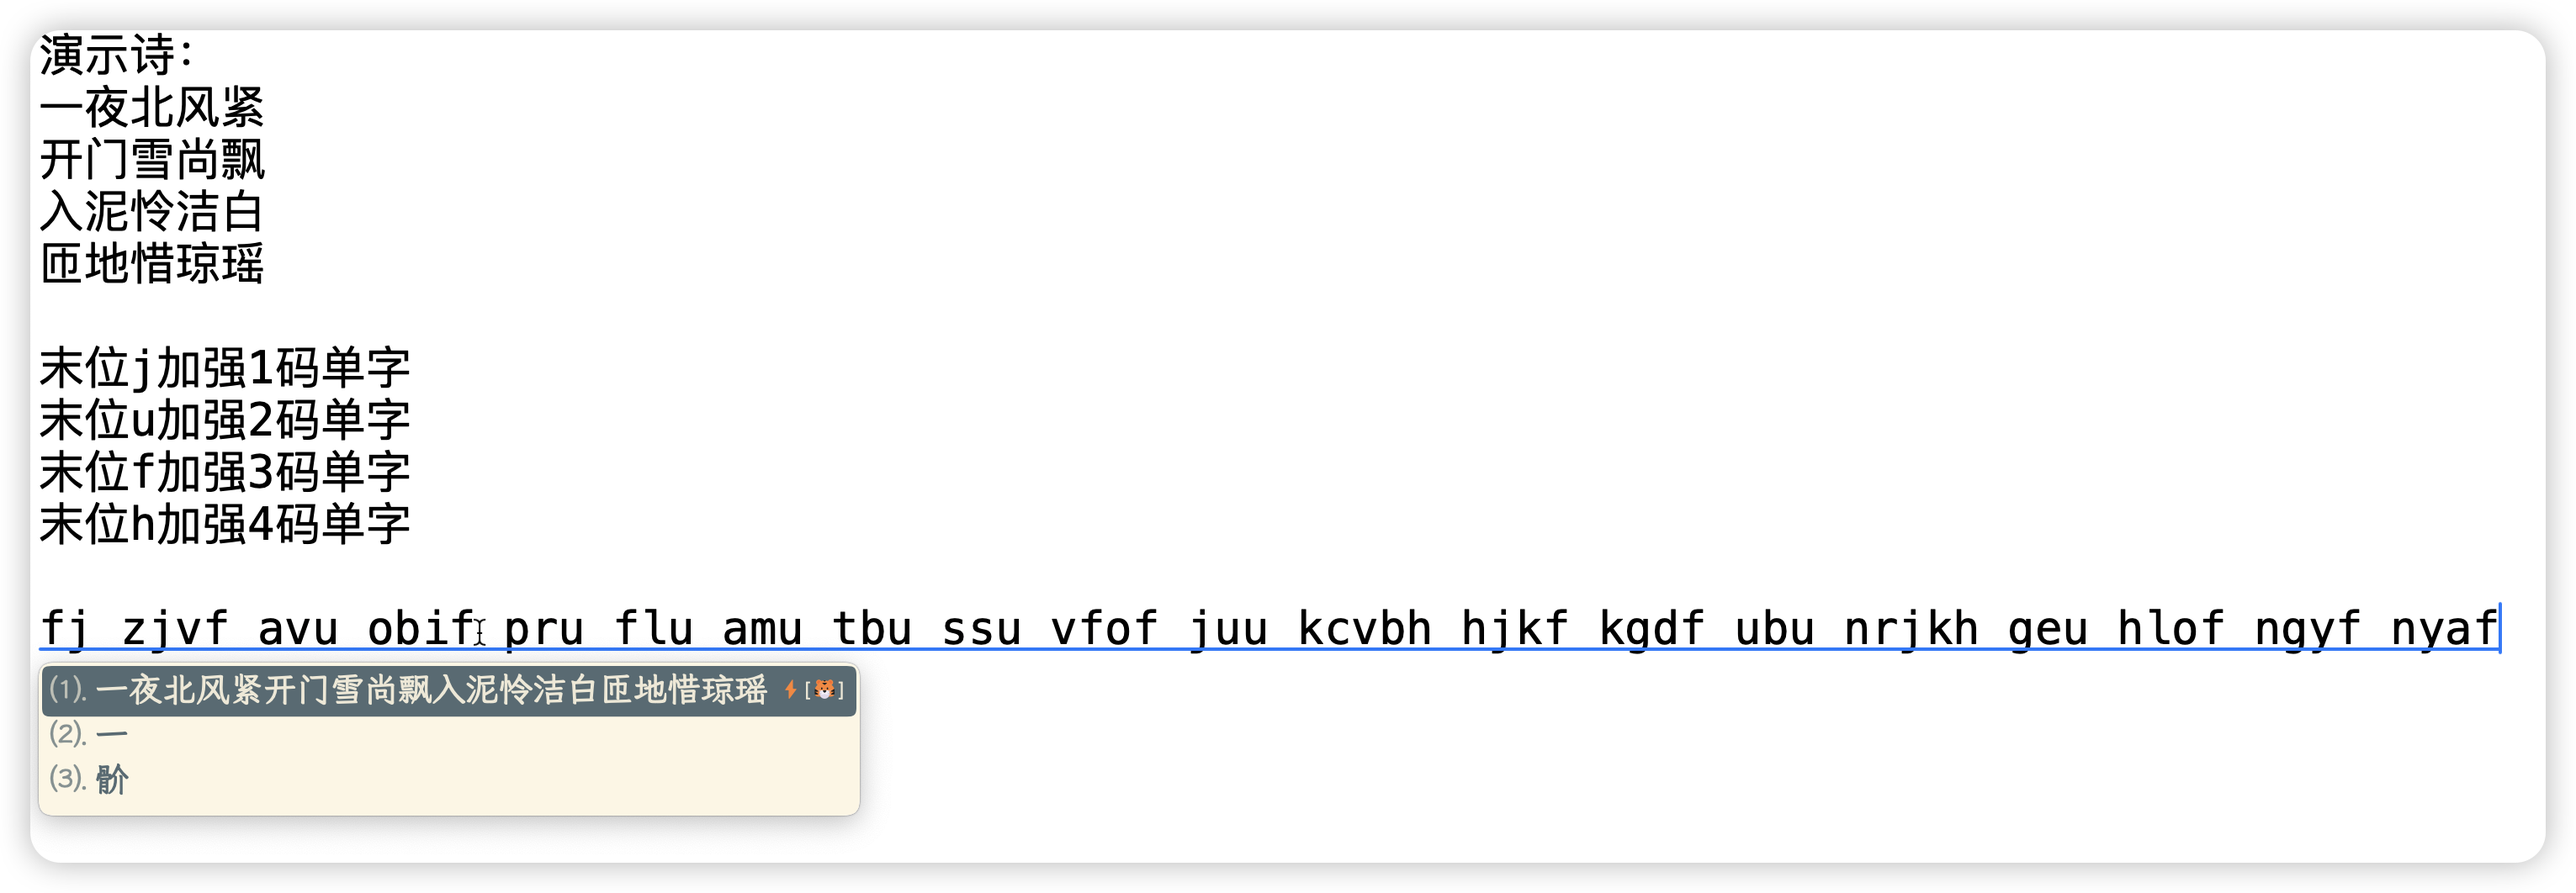
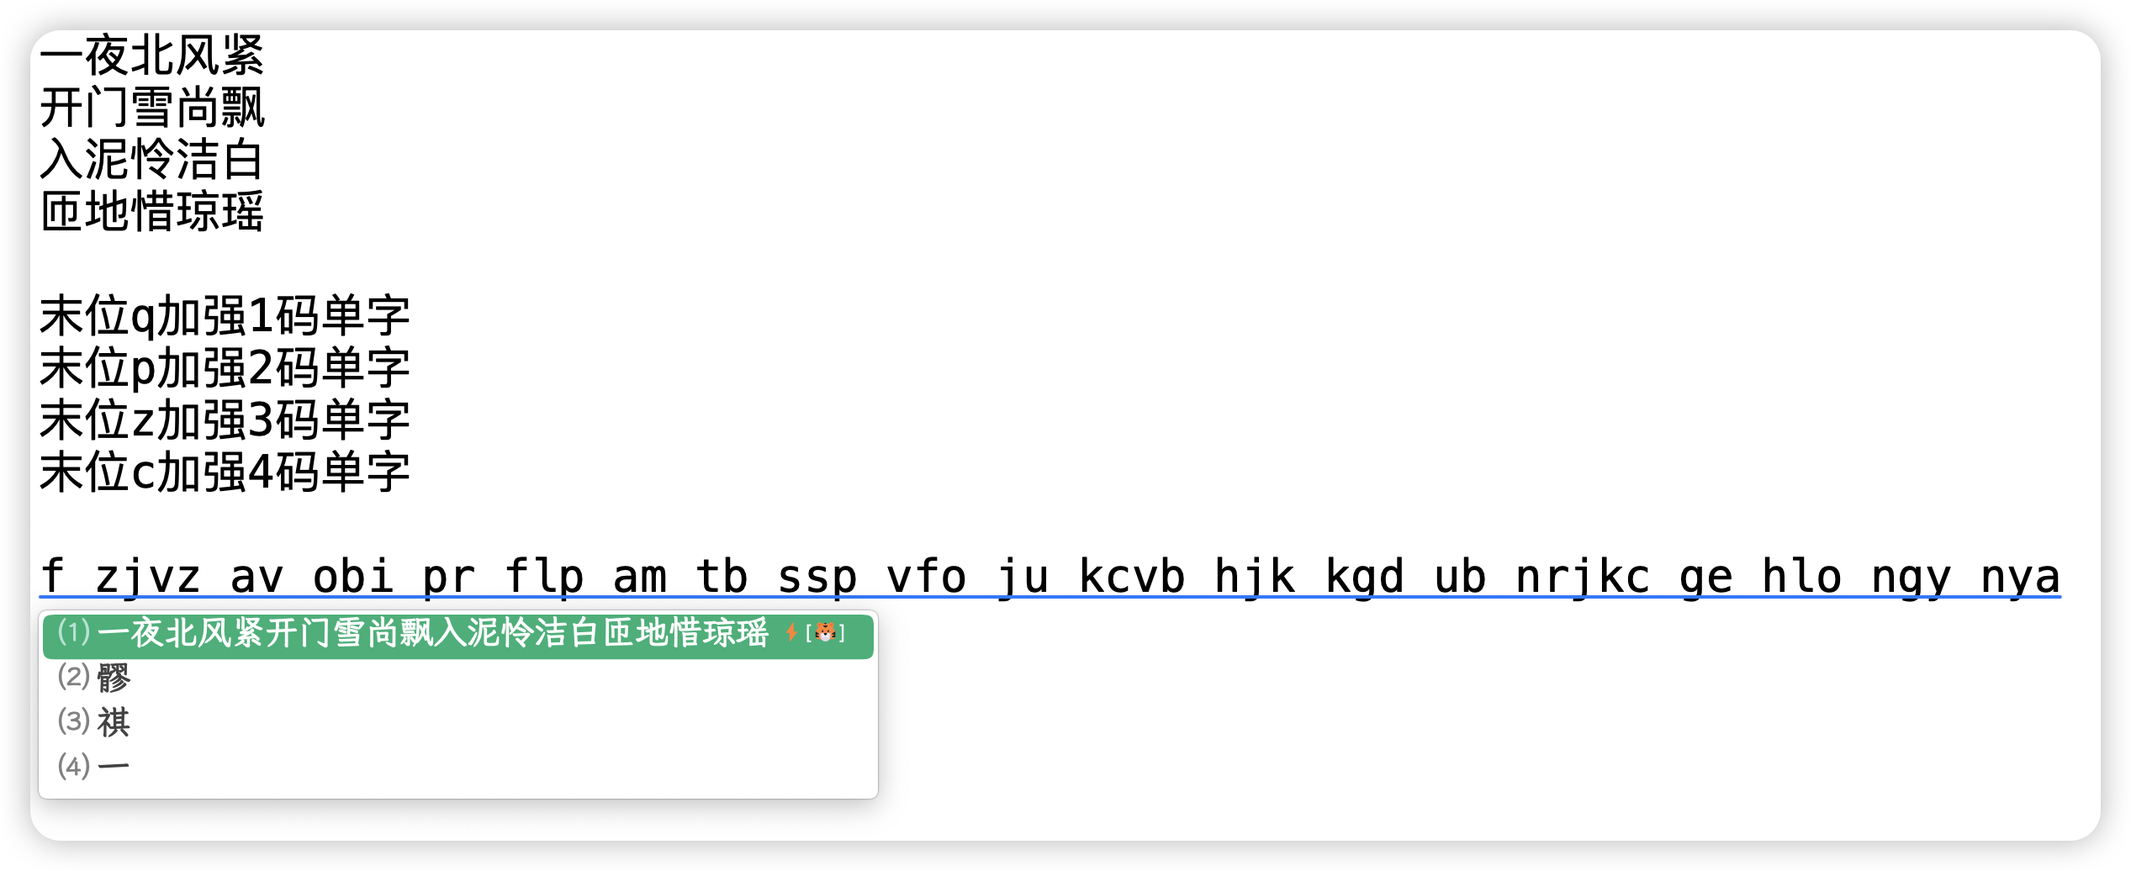
修改低频键位作为整句补码

Changed region(s): [[0.0, 0.0309, 0.9976, 0.9266]]

diff --git a/README.md b/README.md
@@ -18,7 +18,14 @@
 
 按下大写字母 `H` 键，进入 “整句模式”。
 
-> 通过类似五笔识别码的方式，简单、零词库（只需单字码表）实现了精确的虎码整句，利用四个高频键位「jufh」替代空格来加强单字。
+> 通过类似五笔识别码的方式，简单、零词库（只需单字码表）实现了精确的虎码整句，利用四个低频键位「qpzc」替代空格来加强单字。
+
+```
+末位q加强1码单字
+末位p加强2码单字
+末位z加强3码单字
+末位c加强4码单字
+```
 
 ![整句](/assets/xhgj.png)
 
